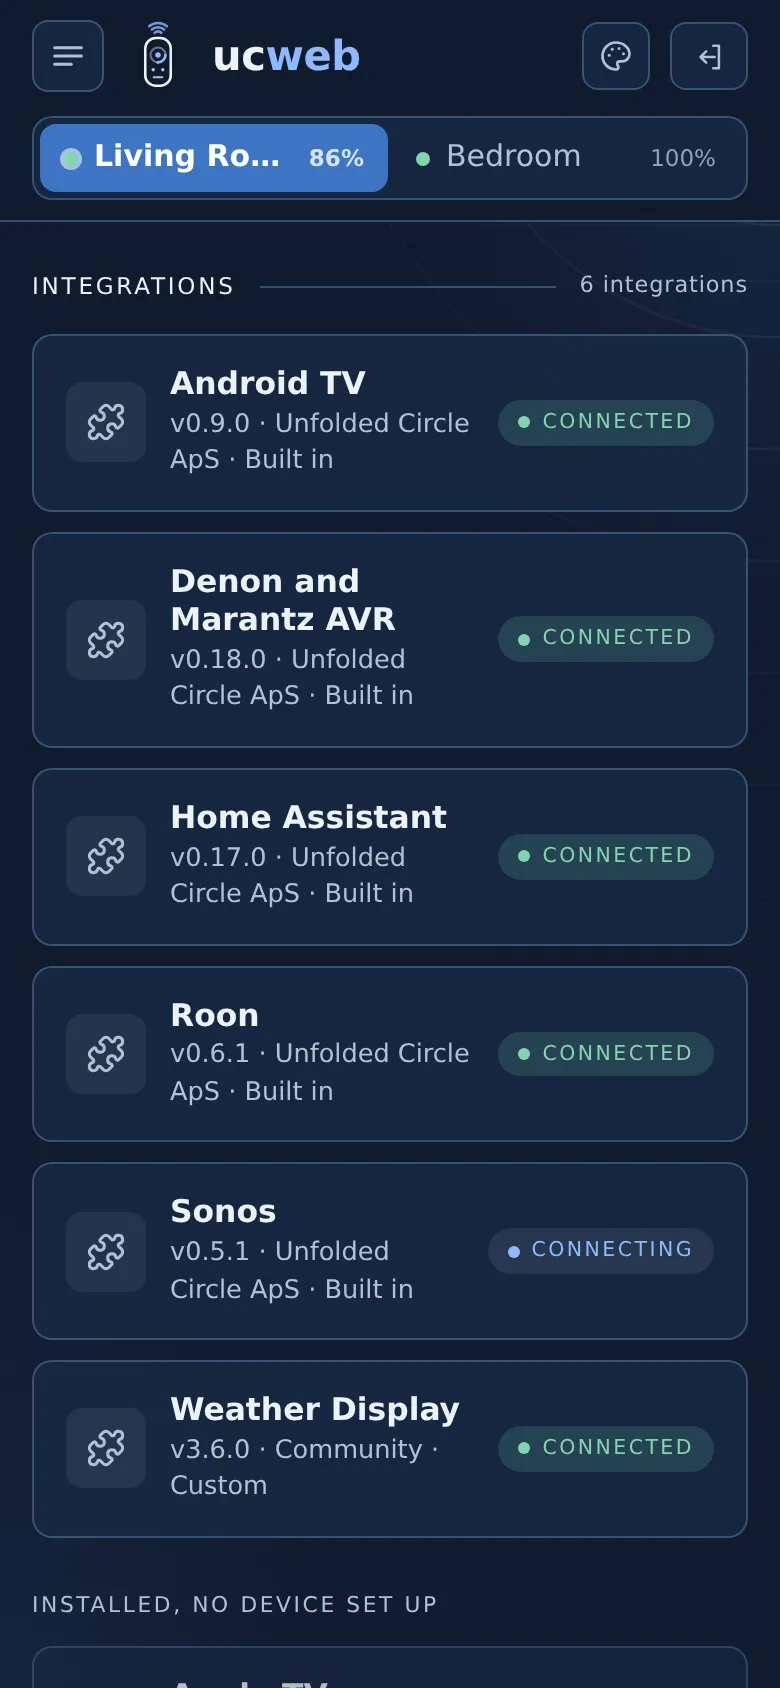
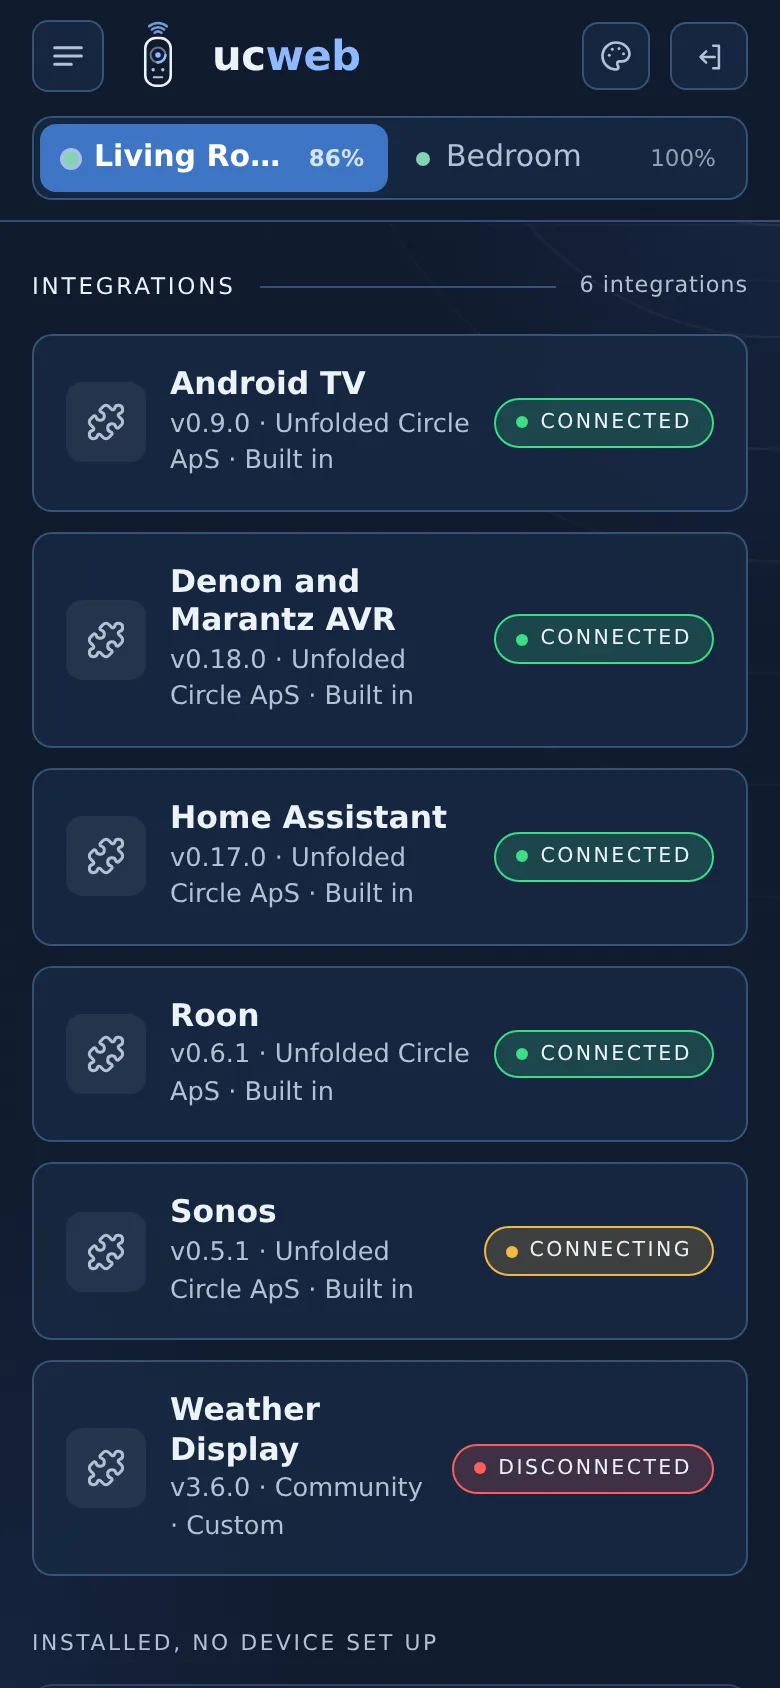
fix(app): color integration status by state
The integration status pill used --ok for Connected, which is grey
(#798987) in Mindshovel Dark, Mindshovel Dark Orange and Graphite &
Brass, so a connected integration looked the same as an idle one.
Disconnected used --warn, and Idle, Not set up, Unknown and Disabled had
no color at all.

The pill now takes the theme's own state colors: green (--on) for
Connected and Active, red (--danger) for Disconnected and Error, amber
(--caution) for Connecting and Reconnecting, and grey (--muted) for
Idle, Not set up, Unknown and Disabled. The dot, tint and border carry
the color and the label stays in the text color, so the small label
reads the same in every theme. Every theme's test already holds these
tokens to a visible green, red and amber.

integrationStatus() is exported so the state-to-color mapping is
tested directly.

diff --git a/test/integration-status.test.js b/test/integration-status.test.js
@@ -1,0 +1,31 @@
+import assert from 'node:assert/strict';
+import { readFile } from 'node:fs/promises';
+import path from 'node:path';
+import { fileURLToPath } from 'node:url';
+import { test } from 'node:test';
+import { integrationStatus } from '../public/devices.js';
+
+const publicDir = path.join(path.dirname(fileURLToPath(import.meta.url)), '..', 'public');
+
+test('a connected integration reads green, a disconnected or failed one red, one on its way amber, and an idle, unset or disabled one grey', () => {
+  const tone = (item) => integrationStatus(item)[1];
+  for (const state of ['CONNECTED', 'ACTIVE']) assert.equal(tone({ state, enabled: true }), 'is-ok', state);
+  for (const state of ['DISCONNECTED', 'ERROR']) assert.equal(tone({ state, enabled: true }), 'is-warn', state);
+  for (const state of ['CONNECTING', 'RECONNECTING']) assert.equal(tone({ state, enabled: true }), 'is-busy', state);
+  for (const state of ['IDLE', 'NOT_CONFIGURED', 'UNKNOWN', null, 'SOMETHING_NEW']) assert.equal(tone({ state, enabled: true }), 'is-idle', String(state));
+  assert.deepEqual(integrationStatus({ state: 'CONNECTED', enabled: false }), ['Disabled', 'is-idle']);
+  assert.deepEqual(integrationStatus({ state: 'DISCONNECTED', enabled: true }), ['Disconnected', 'is-warn']);
+});
+
+test('the status pill takes the theme green, red, amber and grey, and keeps its label in the text color', async () => {
+  const css = await readFile(path.join(publicDir, 'styles.css'), 'utf8');
+  const rule = (selector) => css.match(new RegExp(`\\n${selector.replace(/[.]/g, '\\.')} \\{([^}]*)\\}`))?.[1] ?? '';
+  for (const [selector, token] of [['.intg-state.is-ok', 'on'], ['.intg-state.is-warn', 'danger'], ['.intg-state.is-busy', 'caution'], ['.intg-state.is-idle', 'muted']]) {
+    const body = rule(selector);
+    assert.match(body, new RegExp(`background: color-mix\\(in srgb, var\\(--${token}\\) \\d+%, transparent\\);`), `${selector} tint`);
+    assert.match(body, new RegExp(`border-color: var\\(--${token}\\);`), `${selector} border`);
+    assert.match(body, /color: var\(--text\);/, `${selector} label`);
+    assert.match(rule(`${selector}::before`), new RegExp(`background: var\\(--${token}\\);`), `${selector} dot`);
+  }
+  assert.doesNotMatch(css, /\.intg-state[^{]*\{[^}]*var\(--ok\)/, 'no pill uses --ok, which is grey in several themes');
+});

diff --git a/public/devices.js b/public/devices.js
@@ -413,8 +413,13 @@ export function createDeviceTiles({ onCommand, onPlayer, onOpenPlayer, onOpenDev
 
 const DEVICE_STATES = {
   CONNECTED: ['Connected', 'is-ok'], CONNECTING: ['Connecting', 'is-busy'], DISCONNECTED: ['Disconnected', 'is-warn'], ERROR: ['Error', 'is-warn'],
-  UNKNOWN: ['Unknown', ''], ACTIVE: ['Active', 'is-ok'], IDLE: ['Idle', ''], RECONNECTING: ['Reconnecting', 'is-busy'], NOT_CONFIGURED: ['Not set up', ''],
+  UNKNOWN: ['Unknown', 'is-idle'], ACTIVE: ['Active', 'is-ok'], IDLE: ['Idle', 'is-idle'], RECONNECTING: ['Reconnecting', 'is-busy'], NOT_CONFIGURED: ['Not set up', 'is-idle'],
 };
+
+export function integrationStatus(item) {
+  if (item.enabled === false) return ['Disabled', 'is-idle'];
+  return Object.hasOwn(DEVICE_STATES, item.state) ? DEVICE_STATES[item.state] : ['Unknown', 'is-idle'];
+}
 
 function integrationRow(item) {
   const row = el('article', 'intg-row');
@@ -424,7 +429,7 @@ function integrationRow(item) {
   text.append(el('span', 'tile-name', item.name));
   const facts = [item.version ? `v${item.version}` : null, item.developer, item.kind].filter(Boolean).join(' · ');
   text.append(el('span', 'dev-sub', facts || 'No details reported'));
-  const [label, tone] = item.enabled === false ? ['Disabled', ''] : DEVICE_STATES[item.state] ?? ['Unknown', ''];
+  const [label, tone] = integrationStatus(item);
   const pill = el('span', `intg-state ${tone}`.trim(), label);
   row.append(lead, text, pill);
   return row;

diff --git a/public/styles.css b/public/styles.css
@@ -4166,6 +4166,7 @@ body.has-nav-open {
   align-items: center;
   gap: 6px;
   padding: 4px 10px;
+  border: 1px solid transparent;
   border-radius: 999px;
   background: color-mix(in srgb, var(--text) 8%, transparent);
   color: var(--muted);
@@ -4186,17 +4187,43 @@ body.has-nav-open {
 }
 
 .intg-state.is-ok {
-  background: color-mix(in srgb, var(--ok) 16%, transparent);
-  color: var(--ok);
+  border-color: var(--on);
+  background: color-mix(in srgb, var(--on) 18%, transparent);
+  color: var(--text);
+}
+
+.intg-state.is-ok::before {
+  background: var(--on);
 }
 
 .intg-state.is-warn {
-  background: color-mix(in srgb, var(--warn) 16%, transparent);
-  color: var(--warn);
+  border-color: var(--danger);
+  background: color-mix(in srgb, var(--danger) 18%, transparent);
+  color: var(--text);
+}
+
+.intg-state.is-warn::before {
+  background: var(--danger);
 }
 
 .intg-state.is-busy {
-  color: var(--accent);
+  border-color: var(--caution);
+  background: color-mix(in srgb, var(--caution) 18%, transparent);
+  color: var(--text);
+}
+
+.intg-state.is-busy::before {
+  background: var(--caution);
+}
+
+.intg-state.is-idle {
+  border-color: var(--muted);
+  background: color-mix(in srgb, var(--muted) 18%, transparent);
+  color: var(--text);
+}
+
+.intg-state.is-idle::before {
+  background: var(--muted);
 }
 
 .intg-state.is-busy::before {
